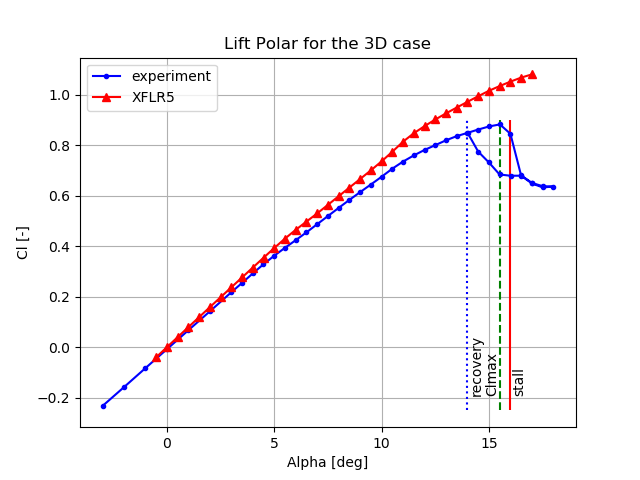
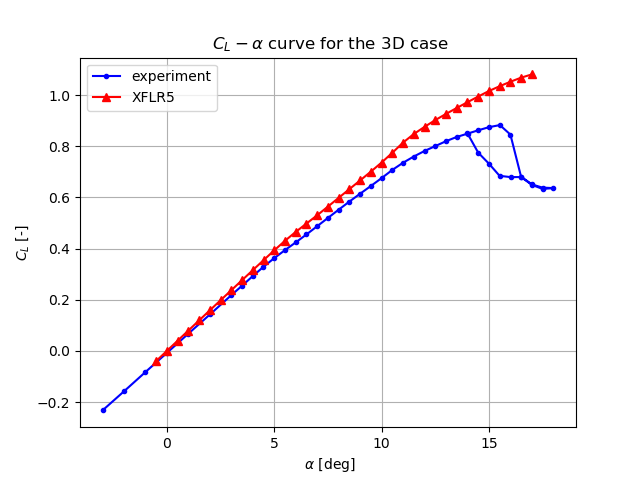
Scripts, data and graphs final version, updated chart titles and axis labels

diff --git a/main3d.py b/main3d.py
@@ -89,19 +89,19 @@ label2 = ('experiment', 'Xfoil')
 plt.plot(Alpha1, CL1, marker='.', color='b')
 plt.plot(Alpha2, CL2, marker='^', color='r')
 plt.legend(label1)
-plt.xlabel("Alpha [deg]")
-plt.ylabel("Cl [-]")
-plt.title("Lift Polar for the 3D case")
+plt.xlabel(r' $\alpha$ [deg]')
+plt.ylabel("$C_L$ [-]")
+plt.title(r' $ C_L - \alpha $ curve for the 3D case')
 plt.grid()
 
-plt.vlines(16, -0.25, 0.9, colors='r')
-plt.text(16.1,-0.18,"stall", rotation=90)
-
-plt.vlines(15.5, -0.25, 0.9, colors='g', linestyles='dashed')
-plt.text(14.85, -0.18, "Clmax", rotation=90)
-
-plt.vlines(14, -0.25, 0.9, colors='b', linestyles='dotted')
-plt.text(14.1, -0.18, "recovery", rotation=90)
+#plt.vlines(16, -0.25, 0.9, colors='r')
+#plt.text(16.1,-0.18,"stall", rotation=90)
+#
+#plt.vlines(15.5, -0.25, 0.9, colors='g', linestyles='dashed')
+#plt.text(14.85, -0.18, "Clmax", rotation=90)
+#
+#plt.vlines(14, -0.25, 0.9, colors='b', linestyles='dotted')
+#plt.text(14.1, -0.18, "recovery", rotation=90)
 plt.savefig("liftcurve3d.png")
 plt.show()
 
@@ -110,9 +110,9 @@ plt.show()
 plt.plot(Alpha1, CM1, marker='.', color='b')
 plt.plot(Alpha2, CM2, marker='^', color='r')
 plt.legend(label1)
-plt.xlabel("Alpha [deg]")
-plt.ylabel("Cm [-]")
-plt.title("Moment Polar for the 3D case")
+plt.xlabel(r' $\alpha$ [deg]')
+plt.ylabel("$C_M$ [-]")
+plt.title(r' $C_M - \alpha$ curve for the 3D case')
 plt.grid()
 
 plt.savefig("momentpolar3d.png")
@@ -123,9 +123,9 @@ plt.show()
 plt.plot(CDcut1, CLcut1, marker='.', color='b')
 plt.plot(CD2, CL2, marker='^', color='r')
 plt.legend(label1)
-plt.xlabel("Cd [-]")
-plt.ylabel("Cl [-]")
-plt.title("Drag Polar for the 3D case")
+plt.xlabel("$C_D$ [-]")
+plt.ylabel("$C_L$ [-]")
+plt.title("$C_D - C_L $ curve for the 3D case")
 plt.grid()
 
 plt.savefig("dragpolar3d.png")
@@ -136,19 +136,19 @@ plt.show()
 plt.plot(Alpha1, CD1, marker='.', color='b')
 plt.plot(Alpha2, CD2, marker='^', color='r')
 plt.legend(label1)
-plt.xlabel("Alpha [deg]")
-plt.ylabel("CD [-]")
-plt.title("Drag curve for the 3D case")
+plt.xlabel(r' $\alpha$ [deg]')
+plt.ylabel("$C_D$ [-]")
+plt.title(r' $C_D - \alpha$ curve for the 3D case')
 plt.grid()
 
-plt.vlines(16, 0, 0.25, colors='r')
-plt.text(16.1, 0.01,"stall", rotation=90)
-
-plt.vlines(15.5, 0, 0.25, colors='g', linestyles='dashed')
-plt.text(14.85, 0.01, "Clmax", rotation=90)
-
-plt.vlines(14, 0, 0.25, colors='b', linestyles='dotted')
-plt.text(14.1, 0.01, "recovery", rotation=90)
+#plt.vlines(16, 0, 0.25, colors='r')
+#plt.text(16.1, 0.01,"stall", rotation=90)
+#
+#plt.vlines(15.5, 0, 0.25, colors='g', linestyles='dashed')
+#plt.text(14.85, 0.01, "Clmax", rotation=90)
+#
+#plt.vlines(14, 0, 0.25, colors='b', linestyles='dotted')
+#plt.text(14.1, 0.01, "recovery", rotation=90)
 
 plt.savefig("dragcurve3d.png")
 plt.show()
@@ -160,19 +160,19 @@ plt.show()
 plt.plot(alpha1, Cl1, marker='.', color='b')
 plt.plot(alpha2, Cl2, marker='^', color='r')
 plt.legend(label2)
-plt.xlabel("Alpha [deg]")
-plt.ylabel("Cl [-]")
-plt.title("Lift Polar for the 2D case")
+plt.xlabel(r'$ \alpha [deg]')
+plt.ylabel("$C_l$ [-]")
+plt.title(r' $ C_l - \alpha$ curve for the 2D case')
 plt.grid()
 
-plt.vlines(15.5, -0.3, 0.95, colors='r')
-plt.text(15.6,-0.18,"stall", rotation=90)
-
-plt.vlines(12.75, -0.3, 0.95, colors='g', linestyles='dashed')
-plt.text(12.85, -0.18, "Clmax", rotation=90)
-
-plt.vlines(13.5, -0.3, 0.95, colors='b', linestyles='dotted')
-plt.text(13.6, -0.18, "recovery", rotation=90)
+#plt.vlines(15.5, -0.3, 0.95, colors='r')
+#plt.text(15.6,-0.18,"stall", rotation=90)
+#
+#plt.vlines(12.75, -0.3, 0.95, colors='g', linestyles='dashed')
+#plt.text(12.85, -0.18, "Clmax", rotation=90)
+#
+#plt.vlines(13.5, -0.3, 0.95, colors='b', linestyles='dotted')
+#plt.text(13.6, -0.18, "recovery", rotation=90)
 plt.savefig("liftcurve2d.png")
 plt.show()
 
@@ -181,19 +181,19 @@ plt.show()
 plt.plot(alpha1, Cd1, marker='.', color='b')
 plt.plot(alpha2, Cd2, marker='^', color='r')
 plt.legend(label2)
-plt.xlabel("Alpha [deg]")
-plt.ylabel("Cd [-]")
-plt.title("Drag Curve for the 2D case")
+plt.xlabel(r' $\alpha$ [deg]')
+plt.ylabel("$C_d$ [-]")
+plt.title(r' $C_d - \alpha$ curve for the 2D case')
 plt.grid()
 
-plt.vlines(15.5, -0.02, 0.35, colors='r')
-plt.text(15.6, -0.02,"stall", rotation=90)
+#plt.vlines(15.5, -0.02, 0.35, colors='r')
+#plt.text(15.6, -0.02,"stall", rotation=90)
 
-plt.vlines(12.75, -0.02, 0.35, colors='g', linestyles='dashed')
-plt.text(12.85, -0.02, "Clmax", rotation=90)
+#plt.vlines(12.75, -0.02, 0.35, colors='g', linestyles='dashed')
+#plt.text(12.85, -0.02, "Clmax", rotation=90)
 
-plt.vlines(13.5, -0.02, 0.35, colors='b', linestyles='dotted')
-plt.text(13.6, -0.02, "recovery", rotation=90)
+#plt.vlines(13.5, -0.02, 0.35, colors='b', linestyles='dotted')
+#plt.text(13.6, -0.02, "recovery", rotation=90)
 plt.savefig("dragcurve2d.png")
 plt.show()
 
@@ -202,9 +202,9 @@ plt.show()
 plt.plot(Cdcut1, Clcut1, marker='.', color='b')
 plt.plot(Cd2, Cl2, marker='^', color='r')
 plt.legend(label2)
-plt.xlabel("Cd [-]")
-plt.ylabel("Cl [-]")
-plt.title("Drag Polar for the 2D case")
+plt.xlabel("$C_d$ [-]")
+plt.ylabel("$C_l$ [-]")
+plt.title("$C_d - C_l $ curve for the 2D case")
 plt.grid()
 
 plt.savefig("dragpolar2d.png")
@@ -215,9 +215,9 @@ plt.show()
 plt.plot(alpha1, Cm1, marker='.', color='b')
 plt.plot(alpha2, Cm2, marker='^', color='r')
 plt.legend(label2)
-plt.xlabel("alpha [deg]")
-plt.ylabel("Cm [-]")
-plt.title("Moment Polar for the 2D case")
+plt.xlabel(r' $\alpha$ [deg]')
+plt.ylabel("$C_m$ [-]")
+plt.title(r'$C_m - \alpha$ curve for the 2D case')
 plt.grid()
 
 plt.savefig("momentpolar2d.png")
